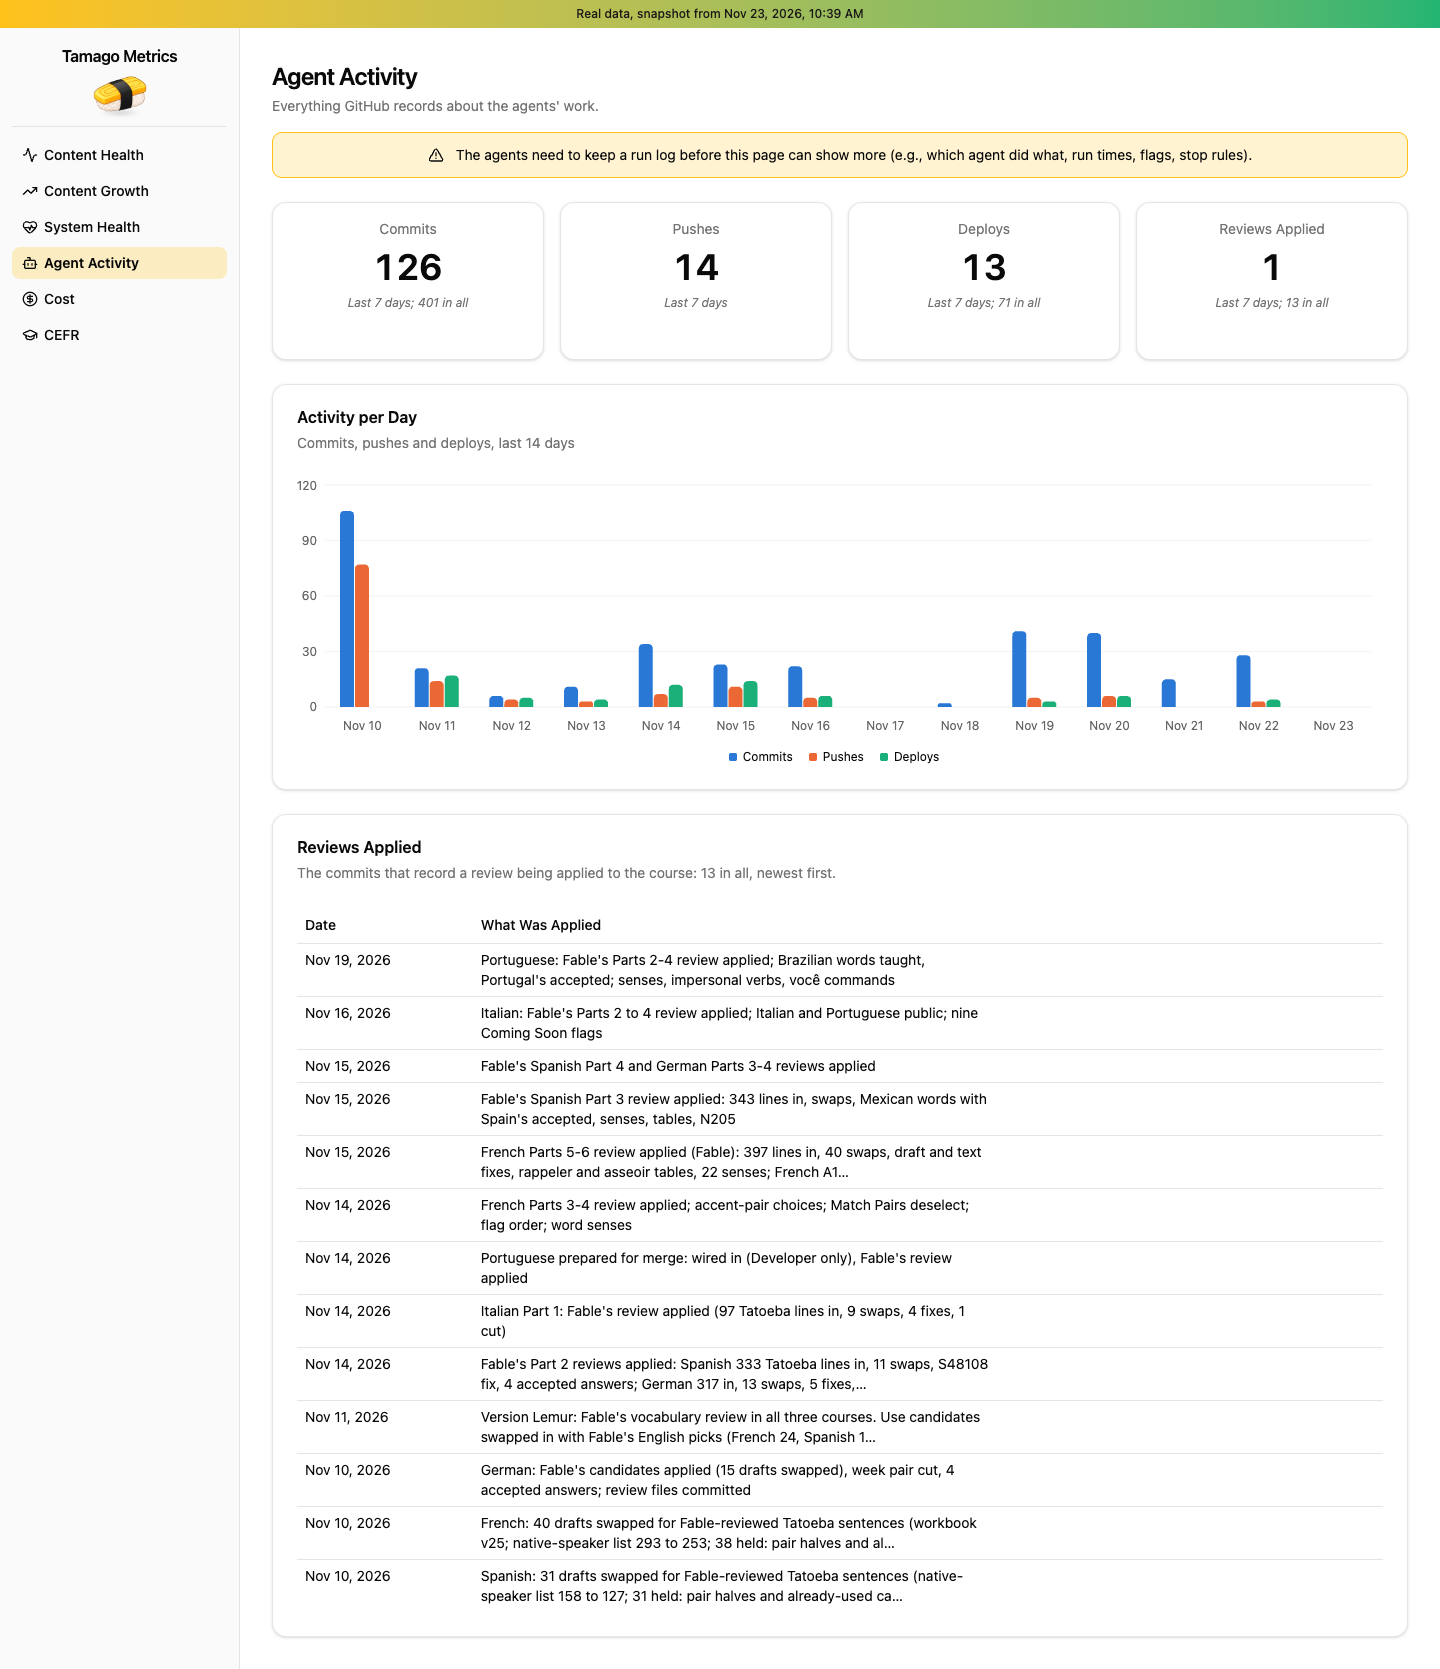
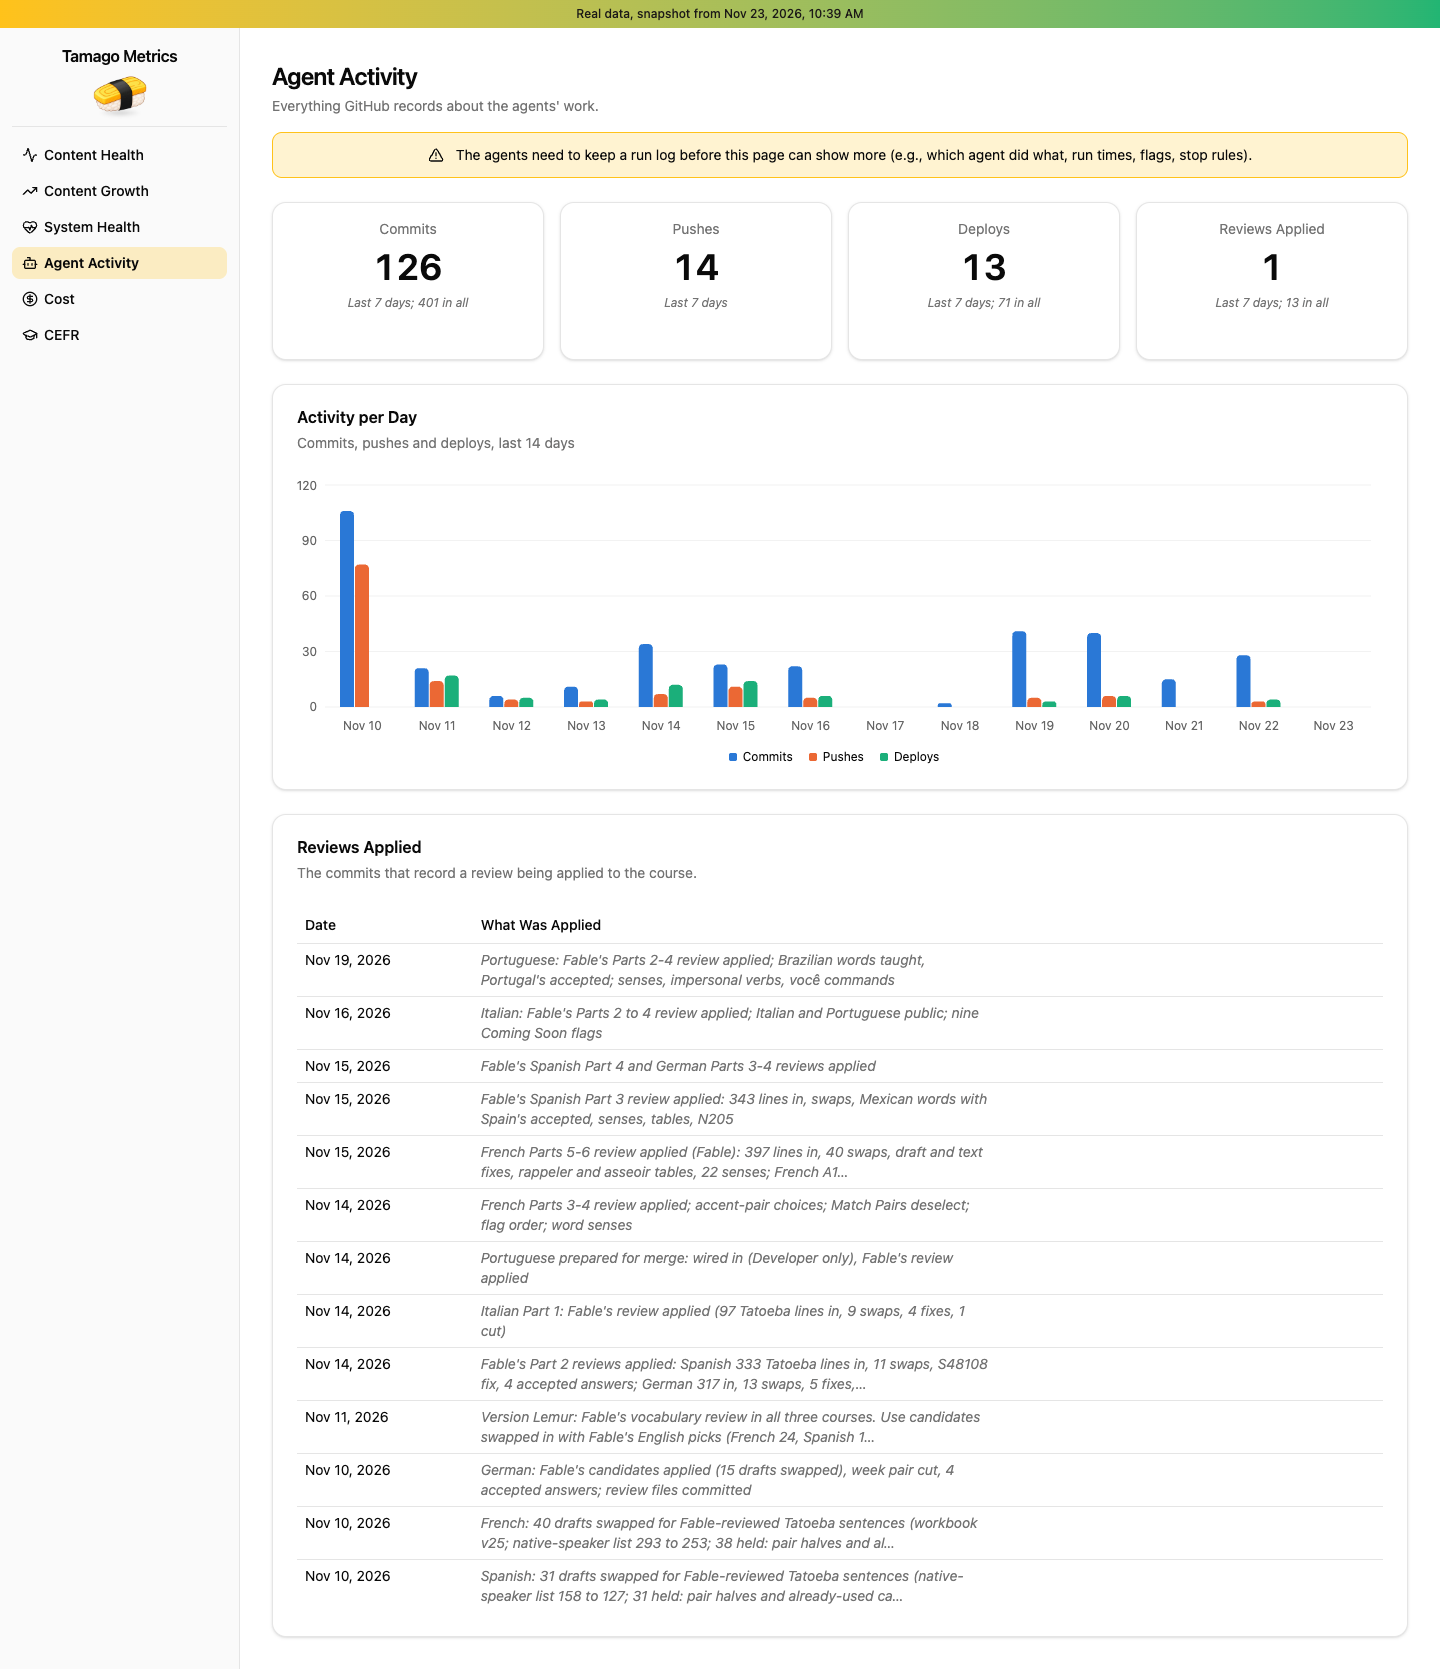
Reviews Applied: description ends at 'the course'; entries in light italic

Changed region(s): [[0.3438, 0.5608, 0.6562, 0.9658]]

diff --git a/src/tables/ReviewsAppliedTable.tsx b/src/tables/ReviewsAppliedTable.tsx
@@ -1,6 +1,6 @@
 import { Card, CardContent, CardDescription, CardHeader, CardTitle } from '@/components/ui/card'
 import { Table, TableBody, TableCell, TableHead, TableHeader, TableRow } from '@/components/ui/table'
-import { formatCount, formatDate, reviewsApplied } from '@/data'
+import { formatDate, reviewsApplied } from '@/data'
 
 import { cn } from '@/lib/utils'
 
@@ -14,8 +14,7 @@ export function ReviewsAppliedTable() {
       <CardHeader>
         <CardTitle>Reviews Applied</CardTitle>
         <CardDescription>
-          The commits that record a review being applied to the course:{' '}
-          {formatCount(reviewsApplied.length)} in all, newest first.
+          The commits that record a review being applied to the course.
         </CardDescription>
       </CardHeader>
       <CardContent>
@@ -39,7 +38,7 @@ export function ReviewsAppliedTable() {
               <TableRow key={`${review.date}-${i}`}>
                 <TableCell className={cn(cell, 'align-top whitespace-nowrap')}>{formatDate(review.date)}</TableCell>
                 <TableCell className={cn(cell, 'align-top')}>
-                  <div className={wrappingText}>{review.subject}</div>
+                  <div className={cn(wrappingText, 'text-muted-foreground italic')}>{review.subject}</div>
                 </TableCell>
               </TableRow>
             ))}
